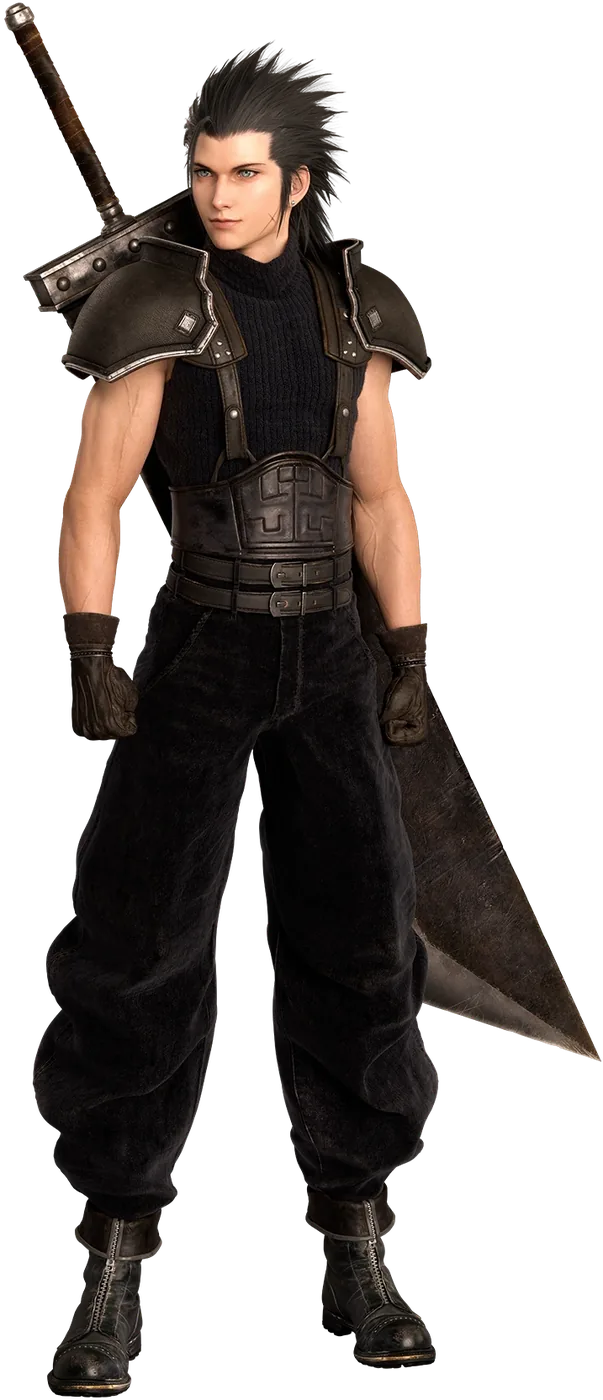
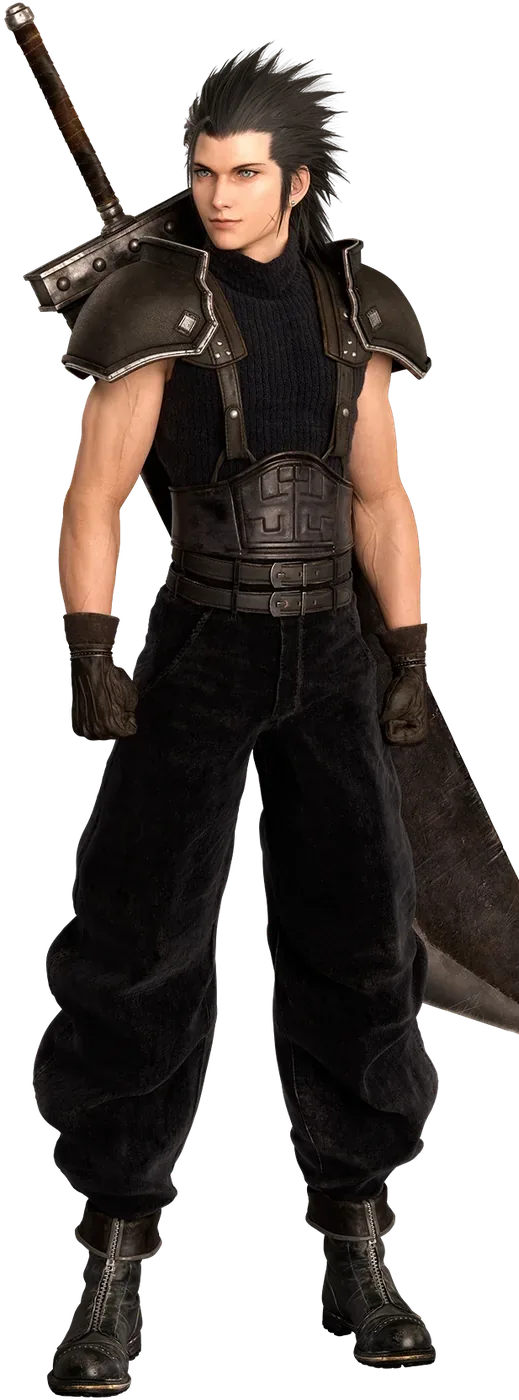
feat: Sonon Kusakabe; characters centred in their portraits; Red XIII's portrait fixed
Sonon Kusakabe (INTERmission), cited to the script: a Wutaian trained under Yuffie's father and sent as her partner; his sister Melphie was killed by one of Scarlet's machines; struck down by Nero at the end. Member of Wutai and part of Yuffie's raid on Shinra HQ. His death is shown rather than said, so it's an open question for footage. Official render added and credited.

Portraits: ten pictures where a long weapon pushed the person off-centre are trimmed on the weapon side until the body sits within 3% of centre (Sonon, Sephiroth, Vincent, Zack; original art of Cid, Aerith, Yuffie, Reno, Rufus, Zack).

Red XIII: the 1997 inset's box now fits wide art instead of leaving empty space that covered his face; his Rebirth picture loses an empty strip at the top and is centred in the ring. All trims are recorded in fetch_art.py; sizes and thumbnails updated.

Also: the OpenAPI copy test gets a 30 s timeout (it could pass 5 s alongside the other suites).

diff --git a/apps/web/src/art/manifest.ts b/apps/web/src/art/manifest.ts
@@ -93,7 +93,7 @@ export const ARTWORK: readonly ArtEntry[] = [
     subjects: ["character_aerith_gainsborough"],
     era: "modern",
   }),
-  art("characters/aerith-og", "852x1304", "cutout", {
+  art("characters/aerith-og", "558x1304", "cutout", {
     subjects: ["character_aerith_gainsborough"],
     era: "og",
   }),
@@ -105,7 +105,7 @@ export const ARTWORK: readonly ArtEntry[] = [
     subjects: ["character_barret_wallace"],
     era: "og",
   }),
-  art("characters/red-xiii", "937x665", "cutout", {
+  art("characters/red-xiii", "937x585", "cutout", {
     subjects: ["character_red_xiii"],
     era: "modern",
   }),
@@ -117,7 +117,7 @@ export const ARTWORK: readonly ArtEntry[] = [
     subjects: ["character_yuffie"],
     era: "modern",
   }),
-  art("characters/yuffie-og", "804x1351", "cutout", {
+  art("characters/yuffie-og", "637x1351", "cutout", {
     subjects: ["character_yuffie"],
     era: "og",
   }),
@@ -129,7 +129,7 @@ export const ARTWORK: readonly ArtEntry[] = [
     subjects: ["character_cait_sith"],
     era: "og",
   }),
-  art("characters/sephiroth", "511x853", "cutout", {
+  art("characters/sephiroth", "404x853", "cutout", {
     subjects: ["character_sephiroth"],
     era: "modern",
   }),
@@ -137,11 +137,11 @@ export const ARTWORK: readonly ArtEntry[] = [
     subjects: ["character_sephiroth"],
     era: "og",
   }),
-  art("characters/zack", "603x1400", "cutout", {
+  art("characters/zack", "519x1400", "cutout", {
     subjects: ["character_zack_fair"],
     era: "modern",
   }),
-  art("characters/zack-og", "365x561", "lineart", {
+  art("characters/zack-og", "213x561", "lineart", {
     subjects: ["character_zack_fair"],
     era: "og",
   }),
@@ -157,7 +157,7 @@ export const ARTWORK: readonly ArtEntry[] = [
     subjects: ["character_rufus_shinra"],
     era: "modern",
   }),
-  art("characters/rufus-og", "655x1245", "cutout", {
+  art("characters/rufus-og", "574x1245", "cutout", {
     subjects: ["character_rufus_shinra"],
     era: "og",
   }),
@@ -165,7 +165,7 @@ export const ARTWORK: readonly ArtEntry[] = [
     subjects: ["character_reno"],
     era: "modern",
   }),
-  art("characters/reno-og", "441x1255", "cutout", {
+  art("characters/reno-og", "366x1255", "cutout", {
     subjects: ["character_reno"],
     era: "og",
   }),
@@ -221,7 +221,7 @@ export const ARTWORK: readonly ArtEntry[] = [
     subjects: ["character_bugenhagen"],
     era: "og",
   }),
-  art("characters/vincent", "430x884", "cutout", {
+  art("characters/vincent", "339x884", "cutout", {
     subjects: ["character_vincent_valentine"],
     era: "modern",
   }),
@@ -233,7 +233,7 @@ export const ARTWORK: readonly ArtEntry[] = [
     subjects: ["character_cid_highwind"],
     era: "modern",
   }),
-  art("characters/cid-og", "984x1253", "cutout", {
+  art("characters/cid-og", "554x1253", "cutout", {
     subjects: ["character_cid_highwind"],
     era: "og",
   }),
@@ -279,6 +279,10 @@ export const ARTWORK: readonly ArtEntry[] = [
   }),
   art("characters/dyne", "389x804", "cutout", {
     subjects: ["character_dyne"],
+    era: "modern",
+  }),
+  art("characters/sonon", "412x822", "cutout", {
+    subjects: ["character_sonon_kusakabe"],
     era: "modern",
   }),
 

diff --git a/apps/web/src/features/entity/Portrait.tsx b/apps/web/src/features/entity/Portrait.tsx
@@ -18,12 +18,16 @@ export function Portrait({ main, original }: { main: ArtEntry; original?: ArtEnt
   const look = lookOf(main);
   return (
     <figure className="ent-portrait">
-      <div className="ent-portrait-stage">
+      {/* A figure wider than tall (Red XIII) is centred in the ring rather than standing on it. */}
+      <div className="ent-portrait-stage" data-wide={main.width > main.height || undefined}>
         <span aria-hidden="true" className="ent-portrait-ring" />
         <Artwork entry={main} eager className="ent-portrait-figure" />
         {look && <span className="ent-portrait-look">As seen in {look}</span>}
         {original && (
-          <div className="ent-portrait-then">
+          <div
+            className="ent-portrait-then"
+            data-wide={original.width > original.height || undefined}
+          >
             <div className="ent-portrait-then-art">
               <Artwork entry={original} />
             </div>

diff --git a/apps/web/src/art/details.ts b/apps/web/src/art/details.ts
@@ -367,6 +367,11 @@ const DETAILS: Readonly<Record<string, Omit<ArtDetails, "artist"> & { artist?: s
     title: "Dyne, Final Fantasy VII Rebirth render",
     wiki: "Dyne from FFVII Rebirth promo render.png",
   },
+  "characters/sonon": {
+    alt: "Sonon in his INTERmission look, in a grey waistcoat and red gauntlets, holding a long staff.",
+    title: "Sonon Kusakabe, Final Fantasy VII Remake Intergrade (INTERmission) render",
+    wiki: "Sonon Kusakabe from FFVII Remake promo render.png",
+  },
   "places/midgar-concept": {
     alt: "Midgar at night from above: the round city on its plate, reactors venting green light around the Shinra Building at its heart.",
     title: "Midgar concept art, Final Fantasy VII",

diff --git a/apps/web/src/features/entity/entity.css b/apps/web/src/features/entity/entity.css
@@ -228,6 +228,17 @@
   background: linear-gradient(180deg, rgb(24 30 44 / 0.92), rgb(8 11 18 / 0.95));
   box-shadow: 0 14px 30px rgb(0 0 0 / 0.6);
 }
+.ent-portrait-stage[data-wide] {
+  align-items: center;
+}
+/* Wide original art (Red XIII) gets a box its own shape, without empty space above it. */
+.ent-portrait-then[data-wide] .ent-portrait-then-art {
+  height: auto;
+}
+.ent-portrait-then[data-wide] .ent-portrait-then-art img {
+  width: 100%;
+  height: auto;
+}
 .ent-portrait-then-art {
   display: flex;
   height: 9.5rem;

diff --git a/apps/api/src/openapi.test.ts b/apps/api/src/openapi.test.ts
@@ -2,6 +2,8 @@ import { readFile } from "node:fs/promises";
 import { expect, it } from "vitest";
 import { OPENAPI_FILE, openApiDocument } from "./openapi.ts";
 
+// Building the document boots the whole app; alongside the other test suites that can take more
+// than the default 5 s.
 it("the web app's copy of the OpenAPI document is up to date — run `pnpm api:types` if this fails", async () => {
   expect(await readFile(OPENAPI_FILE, "utf8")).toBe(await openApiDocument());
-});
+}, 30_000);

diff --git a/apps/web/scripts/fetch_art.py b/apps/web/scripts/fetch_art.py
@@ -99,6 +99,7 @@ ART: dict[str, tuple[str, int]] = {
     "characters/wedge-og": ("Wedge from FFVII concept art.png", 1400),
     "characters/marlene": ("Marlene Wallace from FFVII Remake render.png", 1400),
     "characters/dyne": ("Dyne from FFVII Rebirth promo render.png", 1400),
+    "characters/sonon": ("Sonon Kusakabe from FFVII Remake promo render.png", 1400),
     # Places: Remake concept art for Midgar, the original's concept art beyond it.
     "places/midgar-concept": ("Midgar FFVII Concept Art.jpg", 1600),
     "places/sector-7": ("Sector 7 Pillar artwork for Final Fantasy VII Remake.png", 1600),
@@ -200,6 +201,17 @@ CROP = {
     "places/nibelheim-rebirth": (0, 0.22, 1, 1),  # the area-name banner
     "places/corel-prison": (0, 0, 1, 0.72),  # the subtitle
     "characters/sephiroth-og": (0, 0, 0.516, 1),  # most of the long sword
+    "characters/sonon": (0.425, 0, 1, 1),  # centre the figure
+    "characters/red-xiii": (0, 0.12, 1, 1),  # the empty space above him
+    "characters/sephiroth": (0.209, 0, 1, 1),  # centre the figure
+    "characters/vincent": (0, 0, 0.788, 1),  # centre the figure
+    "characters/zack": (0, 0, 0.861, 1),  # centre the figure
+    "characters/cid-og": (0, 0, 0.563, 1),  # centre the figure
+    "characters/aerith-og": (0.345, 0, 1, 1),  # centre the figure
+    "characters/yuffie-og": (0.208, 0, 1, 1),  # centre the figure
+    "characters/reno-og": (0, 0, 0.83, 1),  # centre the figure
+    "characters/rufus-og": (0.124, 0, 1, 1),  # centre the figure
+    "characters/zack-og": (0, 0, 0.584, 1),  # centre the figure
     "places/under-junon": (0, 0, 1, 0.66),  # the mini-game's instructions
 }
 # knockout: the flat studio background around a render becomes transparent, so every character

diff --git a/README.md b/README.md
@@ -6,7 +6,7 @@
 
 <h1 align="center">FINAL FANTASY VII · TIMELINE ANALYZER</h1>
 
-<p align="center"><b>One story. Four tellings.</b></p>
+<p align="center"><b>One story. Two tellings.</b></p>
 
 <p align="center">
   <img alt="Node 24" src="https://img.shields.io/badge/node-24-58e0a8?style=flat-square">
@@ -16,7 +16,7 @@
   <img alt="Data: CC BY-NC 4.0" src="https://img.shields.io/badge/data-CC%20BY--NC%204.0-ff86b6?style=flat-square">
 </p>
 
-A fan-made guide to how _Final Fantasy VII_'s story is told across the 1997 original, _Remake_, _INTERmission_ and _Rebirth_: what each game shows, what changes, how everyone is connected, and where the stories part ways. It's written for someone meeting the story for the first time, and every fact says where in the game to see it.
+A fan made guide to how _Final Fantasy VII_'s story is told across the 1997 original and Remake series: what each game shows, what changes, how everyone is connected, and where the stories part ways. It's written for someone meeting the story for the first time, and every fact says where in the game to see it.
 
 ---
 
@@ -45,7 +45,7 @@ The four games, as the home menu shows them.
 | **Archive**    | Each game chapter by chapter, and how every fact was checked                             |
 | **Config**     | Background music, motion, the title screen, the Buster Sword cursor, the spoiler warning |
 
-Around it: a title screen over Midgar at night, a home menu in the original's pause-menu style that you can drive with the arrows or W A S D, the original's blue window between sections, and 121 official pictures behind every screen. The full look is in [`docs/design.md`](docs/design.md).
+Around it: a title screen over Midgar at night, a home menu in the original's pause-menu style that you can drive with the arrows or W A S D, the original's blue window between sections, and 122 official pictures behind every screen. The full look is in [`docs/design.md`](docs/design.md).
 
 ## ☞ Materia
 

diff --git a/docs/canon-and-sources.md b/docs/canon-and-sources.md
@@ -45,7 +45,7 @@ A fact goes into `data/` only after it has been **checked against the game itsel
 
 Wikis and fan resources may be used **only to locate** a fact (which chapter, which scene). They are never the evidence.
 
-**Status of the dataset (v0.2, 2026-09-29):** 30 events, 30 characters, 25 locations and 5 organizations. Every fact was checked against full script transcripts (level 3) — see the research log in `data/research/sources.yaml`. Where a fact depends on what is _shown_ rather than said, it came from the transcripts' stage directions and is listed in `data/research/open-questions.yaml` for checking against footage before v1.0. Nothing was added from the parts of the transcripts that are missing (Rebirth chapters 8–9, and gaps in chapters 13–14); those are open questions too.
+**Status of the dataset (v0.2, 2026-09-29):** 30 events, 31 characters, 25 locations and 5 organizations. Every fact was checked against full script transcripts (level 3) — see the research log in `data/research/sources.yaml`. Where a fact depends on what is _shown_ rather than said, it came from the transcripts' stage directions and is listed in `data/research/open-questions.yaml` for checking against footage before v1.0. Nothing was added from the parts of the transcripts that are missing (Rebirth chapters 8–9, and gaps in chapters 13–14); those are open questions too.
 
 **The research log** (`data/research/`, decision [0012](decisions/0012-archive-and-sources.md)) records every source used, whether it is evidence or only used to locate, and every open question. It is validated with the dataset and shown at `/archive/research`.
 
